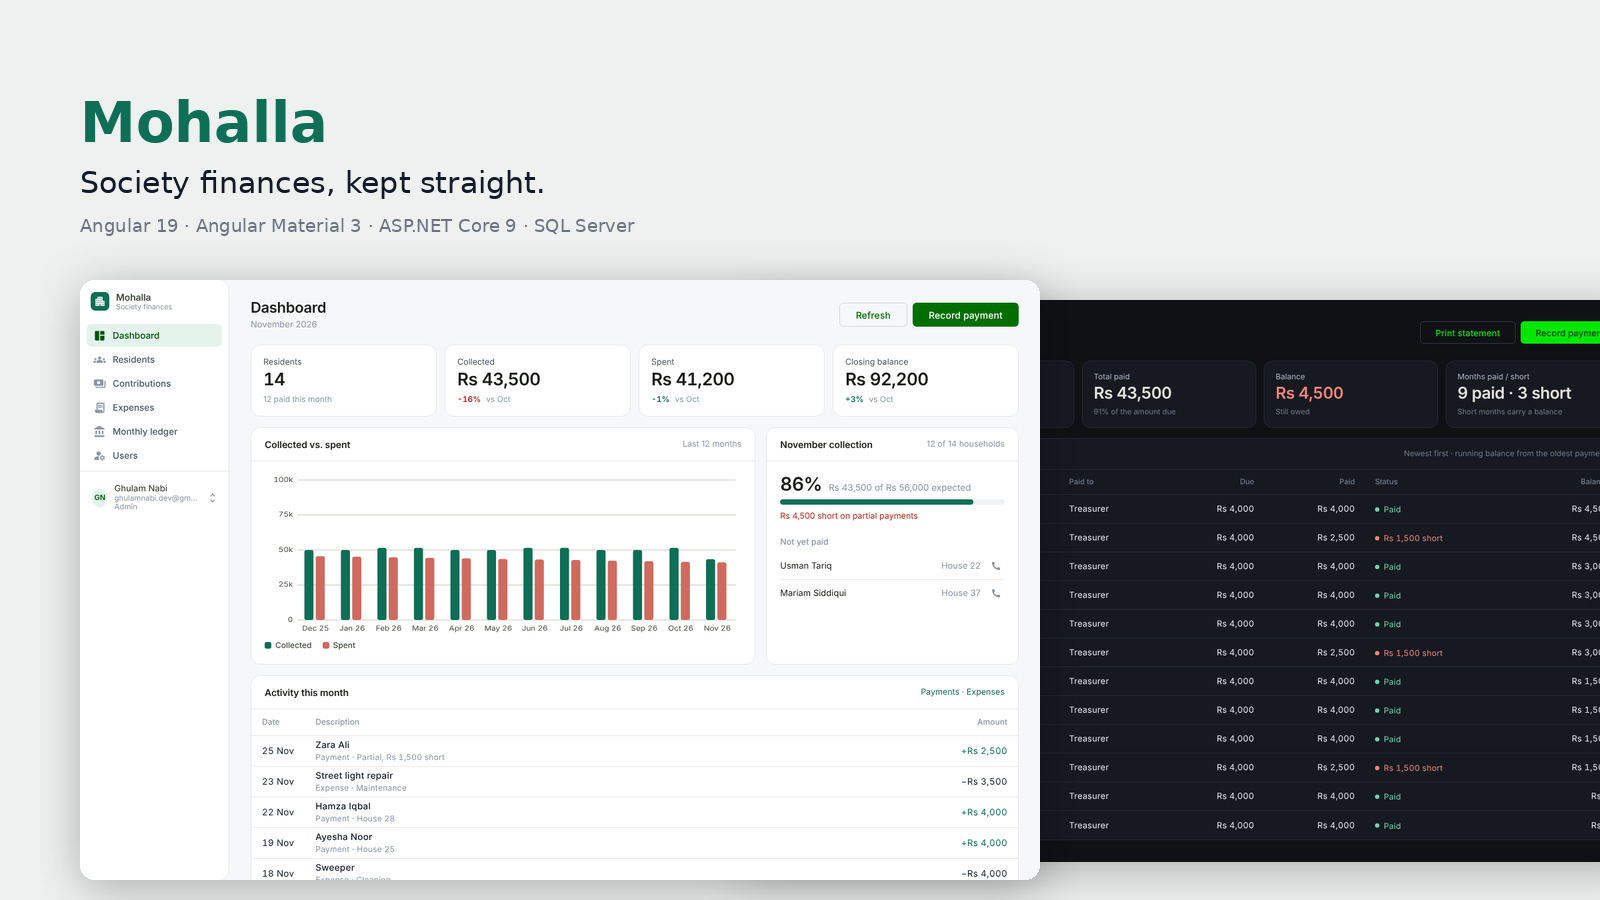
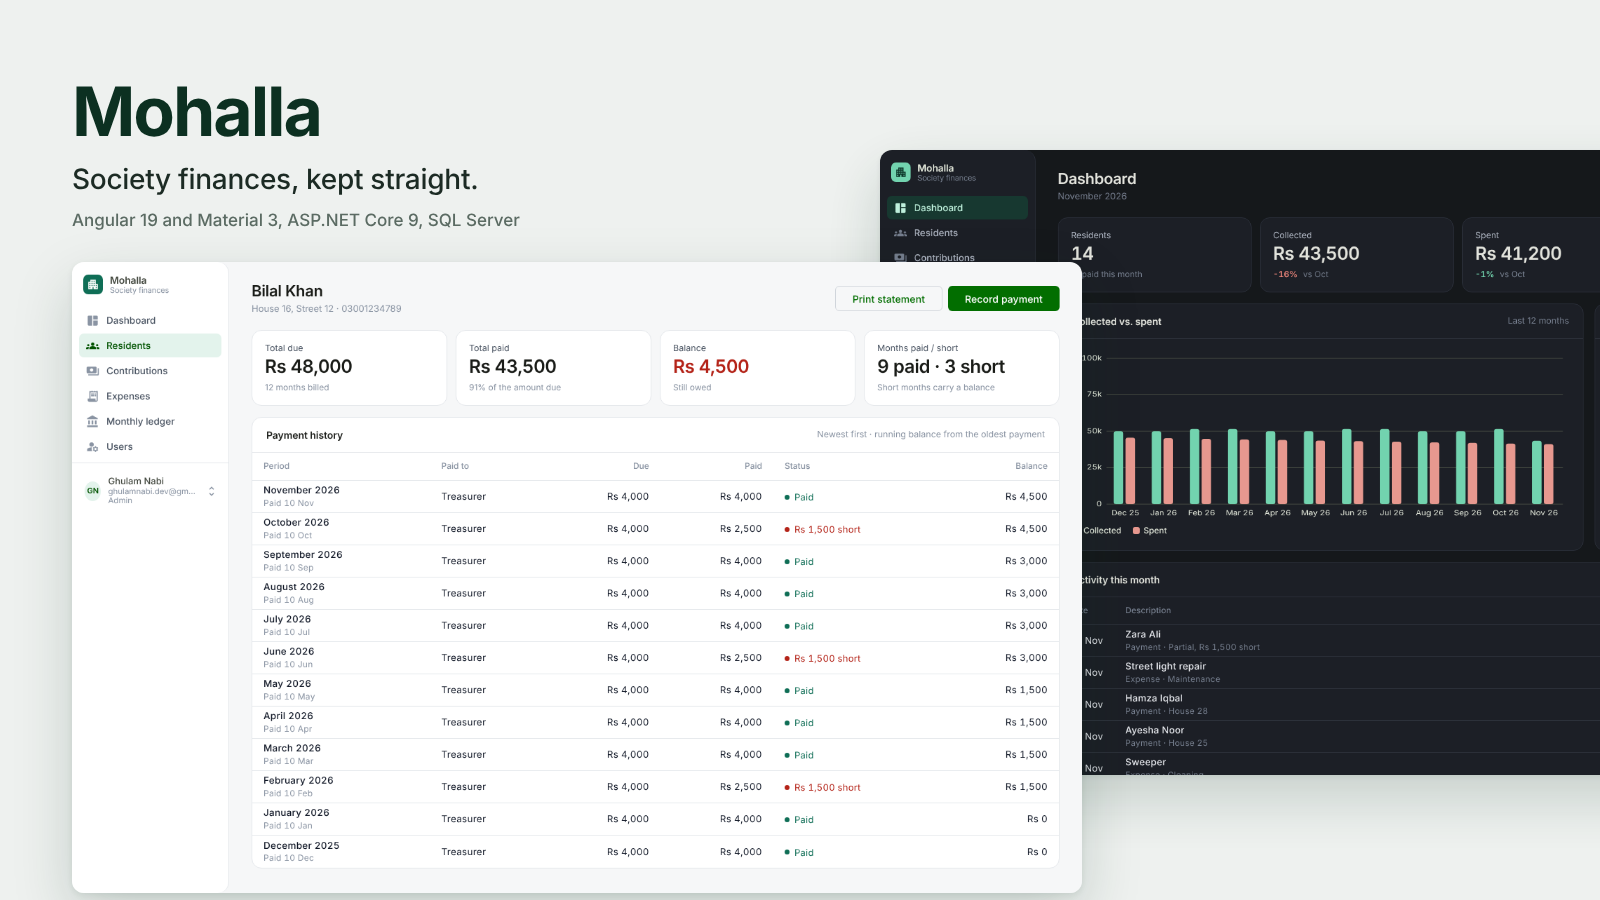
Lead the README cover with the resident statement
The statement (dues, payments, short months, running balance) is the
screen that shows what Mohalla is for, so it now leads the cover, with
the dark-mode dashboard behind it. Rendered in Inter instead of a
fallback font; the stack line no longer uses middle dots.

Claude-Session: https://claude.ai/code/session_01JqkC5cwcFMZ9kEKPSYY6hM

diff --git a/README.md b/README.md
@@ -10,7 +10,7 @@
 **Mohalla** (Urdu: *neighbourhood*) keeps a housing society's books: residents, monthly contributions, categorised expenses, and a month-by-month ledger that is generated automatically and carries the closing balance forward. Admins record and manage; viewers get a read-only view of the same figures.
 
 <p align="center">
-  <img src="client/docs/screenshots/cover.png" alt="Mohalla — dashboard in light mode and a resident statement in dark mode" width="100%">
+  <img src="client/docs/screenshots/cover.png" alt="Mohalla: a resident's statement with every short month and the running balance, and the dashboard in dark mode behind it" width="100%">
 </p>
 
 <p align="center">
